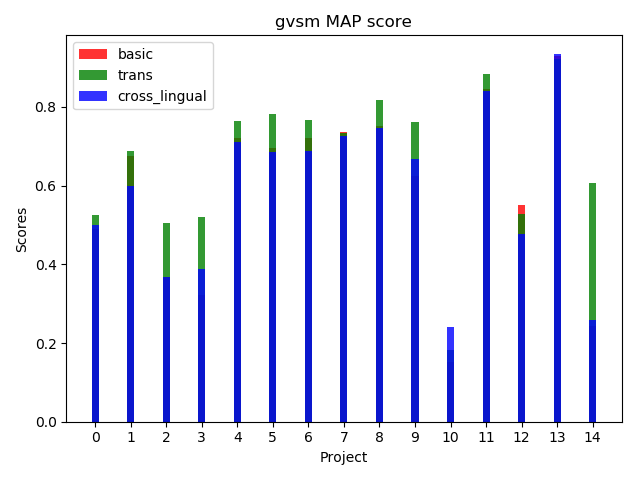
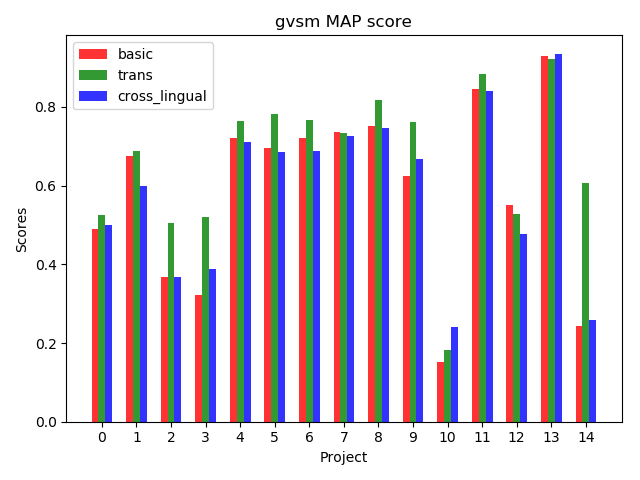
limit en wv for comparision

Changed region(s): [[0.125, 0.0938, 0.9375, 0.9375]]

diff --git a/main/reborn/experiments/Experiment2/plot/bar_chart/exp2_barchart.py b/main/reborn/experiments/Experiment2/plot/bar_chart/exp2_barchart.py
@@ -27,7 +27,7 @@ def bar_plot(data_dict, model, title):
     bar_width = 0.2
     opacity = 0.8
     if model.startswith("gvsm"):
-        rects1 = plt.bar(index+bar_width, data_dict[model], bar_width,
+        rects1 = plt.bar(index, data_dict[model], bar_width,
                          alpha=opacity,
                          color='r',
                          label='basic')
@@ -35,7 +35,7 @@ def bar_plot(data_dict, model, title):
                          alpha=opacity,
                          color='g',
                          label='trans')
-        rects1 = plt.bar(index + bar_width , data_dict["{}_clwv".format(model)], bar_width,
+        rects1 = plt.bar(index + bar_width*2 , data_dict["{}_clwv".format(model)], bar_width,
                          alpha=opacity,
                          color='b',
                          label='cross_lingual')
